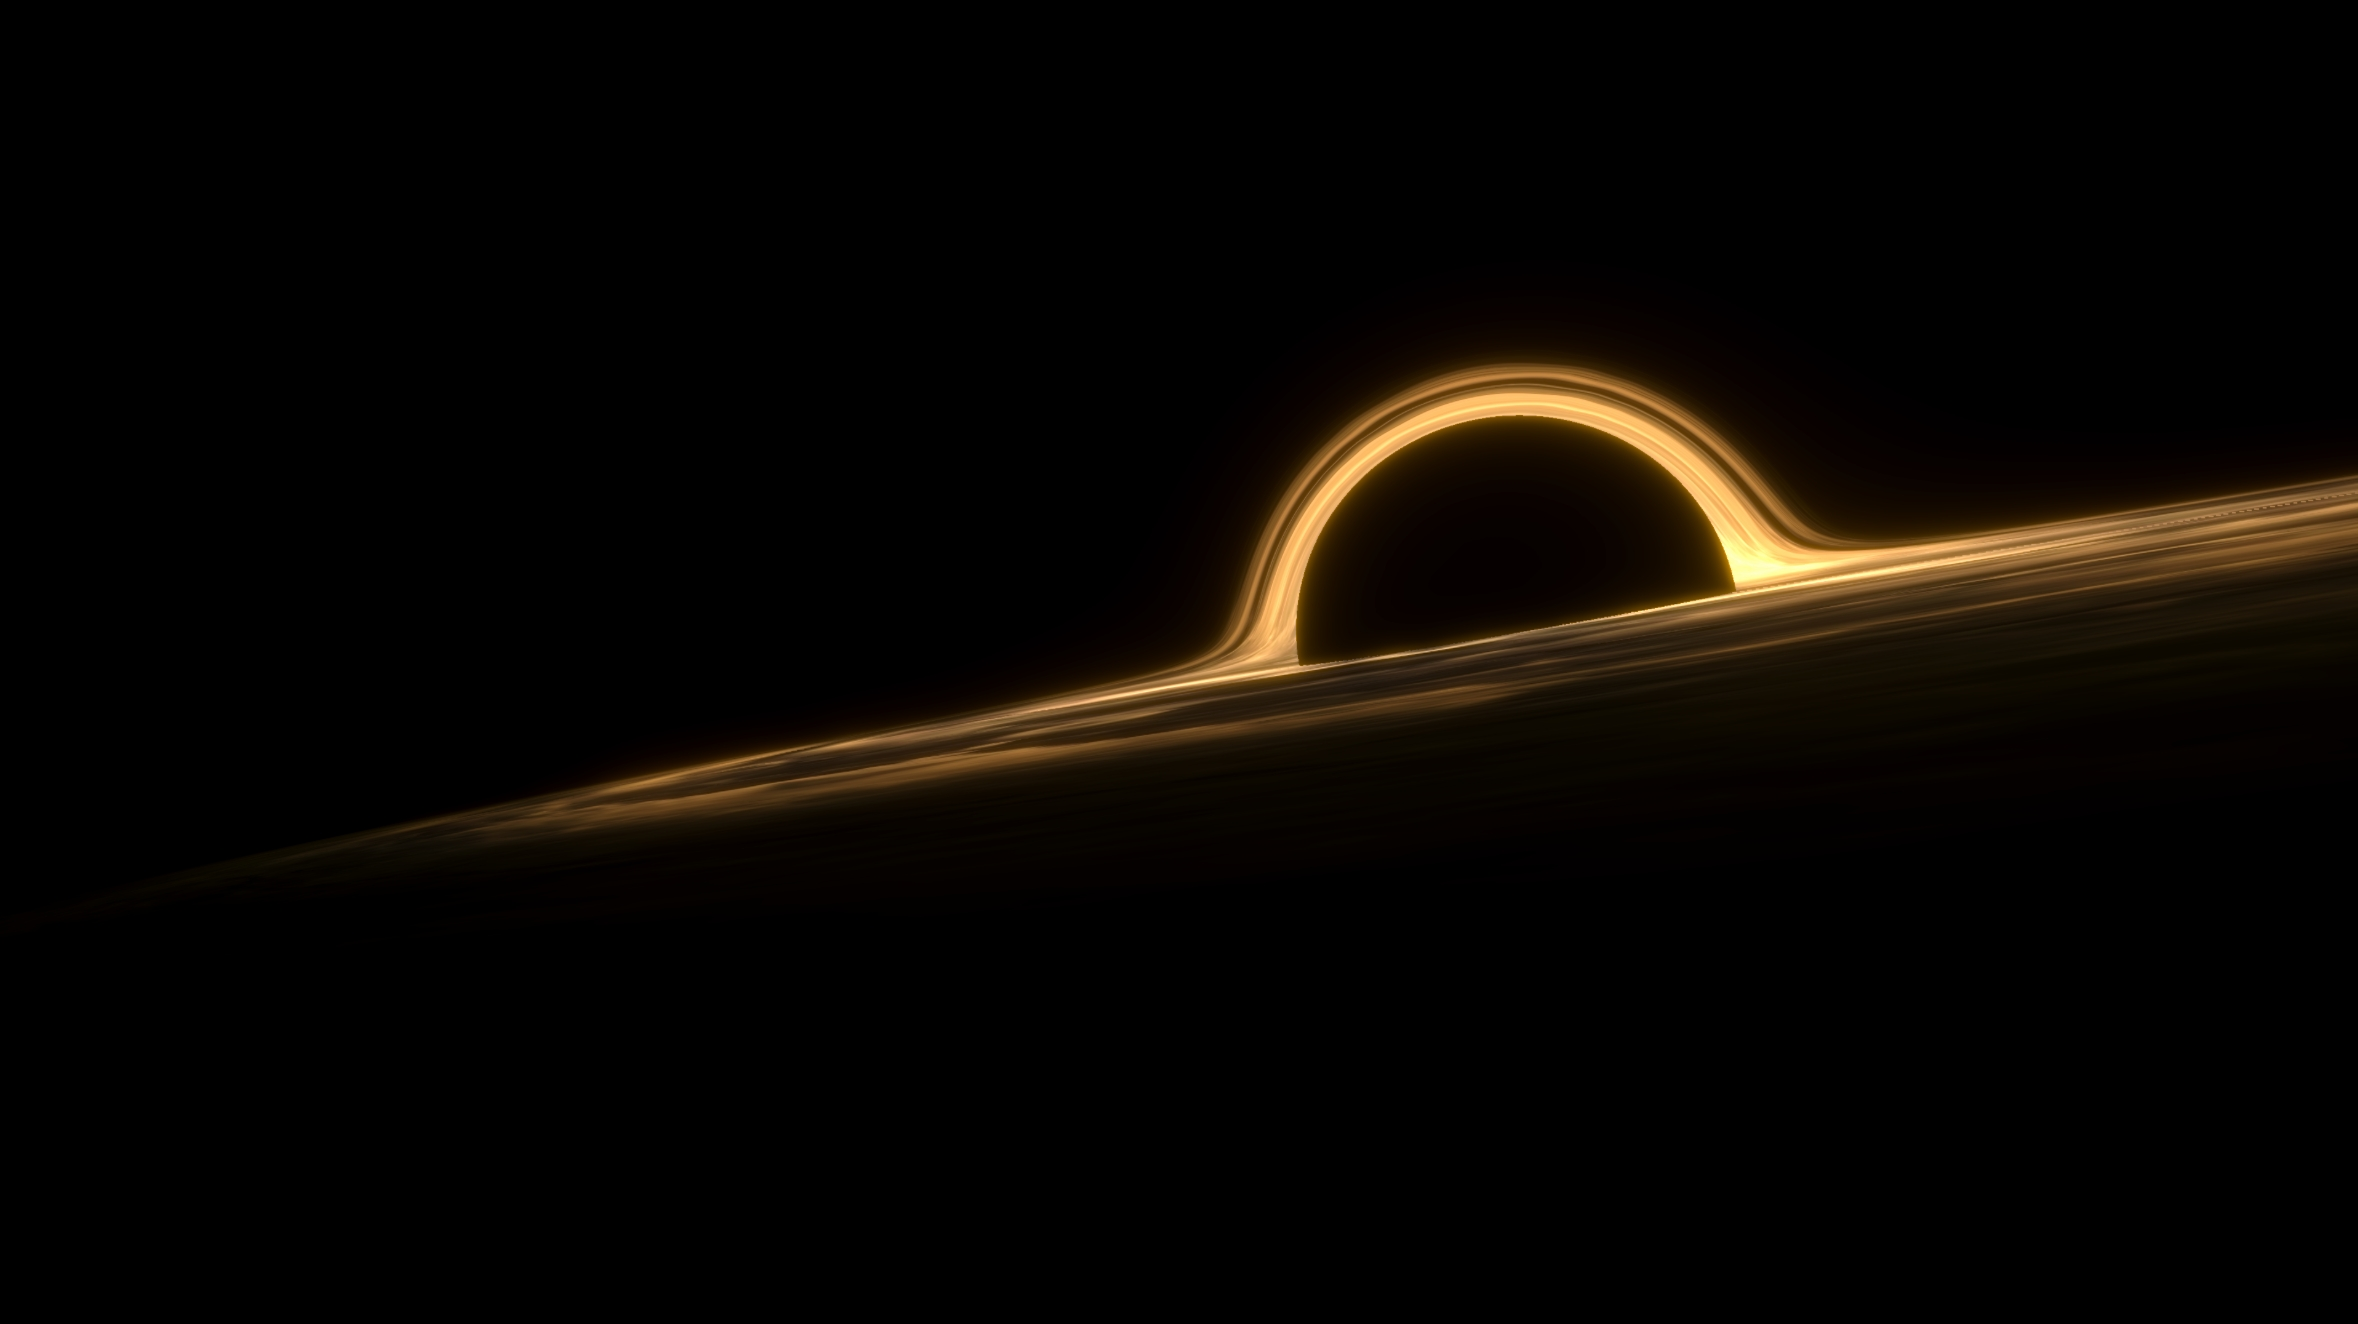
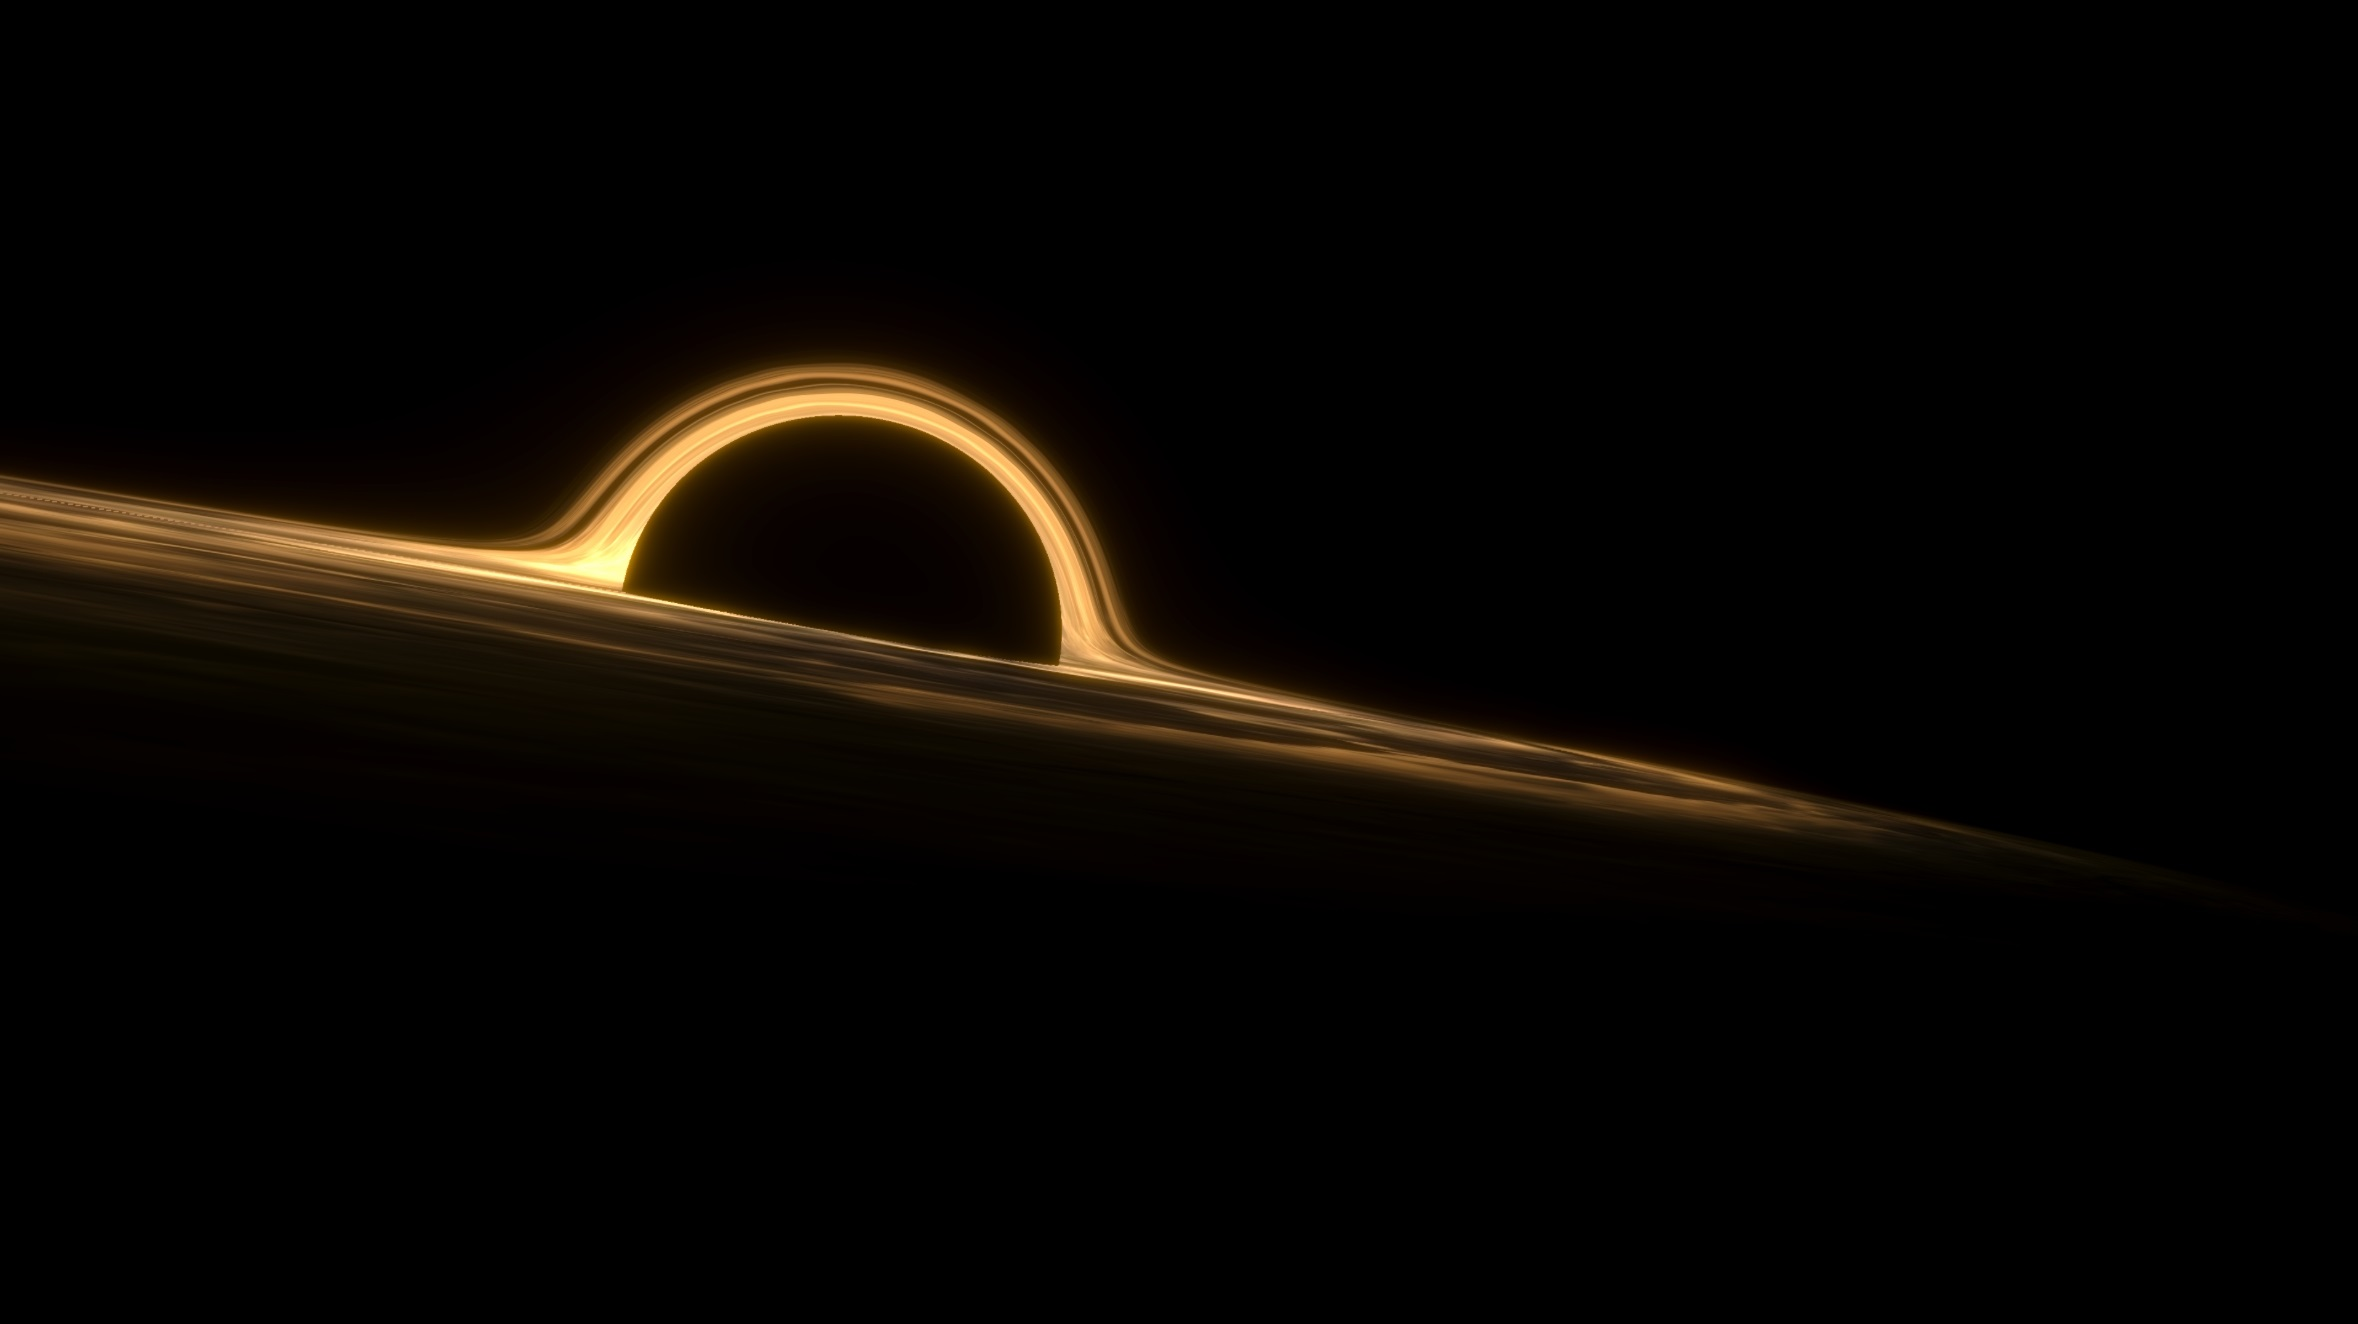
Added the 1st Unity proj page

Changed region(s): [[0.0, 0.2477, 1.0, 0.6503]]

diff --git a/pages/en/unity-project-gallery.html b/pages/en/unity-project-gallery.html
@@ -4,68 +4,36 @@
     <meta charset="UTF-8">
     <meta http-equiv="X-UA-Compatible" content="IE=edge">
     <meta name="viewport" content="width=device-width, initial-scale=1.0">
-    <title>Unity Projects</title>
-    <link rel="stylesheet" href="./css/unity-projects.css">
-    <!-- <script src="js/main.js" defer></script> -->
+    <title>Unity Mini Projects</title>
+    <link rel="stylesheet" href="./css/project-gallery.css">
+    <script src="./js/project-gallery.js" defer></script>
     <script src="https://kit.fontawesome.com/b6810b08c6.js" crossorigin="anonymous"></script>
 </head>
 <body>
-    <div id="top_bar">
-        <a href="../../index.html">
-            <i class="fa-solid fa-arrow-left-long"></i>
-        </a>
-        <h1>Project Gallery</h1>
-    </div>
-    <div id="entry_grid">
-        <a class="project_entry">
-            <img src="../../res/img/BlackHole00.jpg" alt="Unity Mini-Projects" class="showcase_img">
-            <h1>Unity<br>Mini-Projects</h1>
-            <p>
-                Several work-in-progress customized renderer
-            </p>
-        </a>
-        <a class="project_entry">
-            <img src="../../res/img/BlackHole00.jpg" alt="Unity Mini-Projects" class="showcase_img">
-            <h1>Unity<br>Mini-Projects</h1>
-            <p>
-                Several work-in-progress customized renderer
-            </p>
-        </a>
-        <a class="project_entry">
-            <img src="../../res/img/BlackHole00.jpg" alt="Unity Mini-Projects" class="showcase_img">
-            <h1>Unity<br>Mini-Projects</h1>
-            <p>
-                Several work-in-progress customized renderer
-            </p>
-        </a>
-        <a class="project_entry">
-            <img src="../../res/img/BlackHole00.jpg" alt="Unity Mini-Projects" class="showcase_img">
-            <h1>Unity<br>Mini-Projects</h1>
-            <p>
-                Several work-in-progress customized renderer
-            </p>
-        </a>
-        <a class="project_entry">
-            <img src="../../res/img/BlackHole00.jpg" alt="Unity Mini-Projects" class="showcase_img">
-            <h1>Unity<br>Mini-Projects</h1>
-            <p>
-                Several work-in-progress customized renderer
-            </p>
-        </a>
-        <a class="project_entry">
-            <img src="../../res/img/BlackHole00.jpg" alt="Unity Mini-Projects" class="showcase_img">
-            <h1>Unity<br>Mini-Projects</h1>
-            <p>
-                Several work-in-progress customized renderer
-            </p>
-        </a>
-        <a class="project_entry">
-            <img src="../../res/img/BlackHole00.jpg" alt="Unity Mini-Projects" class="showcase_img">
-            <h1>Unity<br>Mini-Projects</h1>
-            <p>
-                Several work-in-progress customized renderer
-            </p>
-        </a>
+    <a id="back_btn" href="../../index.html">
+        <i class="fa-solid fa-arrow-left-long"></i>
+    </a>
+    <ul id="page_selection">
+        <i id="prev_page" class="fa-solid fa-chevron-left"></i>
+        <li><i class="fa-solid fa-circle"></i></li>
+        <!-- <li><i class="fa-regular fa-circle"></i></li> -->
+        <i id="next_page" class="fa-solid fa-chevron-right"></i>
+    </ul>
+
+    <p id="next_tip"><i class="fa-solid fa-caret-right"></i>Scroll</p>
+    <div id="vertical_line"></div>
+    
+    <img class="showcase" src="../../res/img/BlackHoleBG.jpg" alt="">
+    <div class="showcase_desc">
+        <h1>Black Hole VFX</h1>
+        <div class="skills">
+            <div class="skill">Unity</div>
+            <div class="skill">ShaderLab</div>
+            <div class="skill">Algorithm</div>
+        </div>
+        <p>A special effect to experiment on SDF and ray marching</p>
+        <p>This is rendered without any mesh</p>
+        <!-- <a href="./detail-pages/dice-valley.html">More<i class="fa-solid fa-arrow-right-long"></i></a> -->
     </div>
 </body>
 </html>
